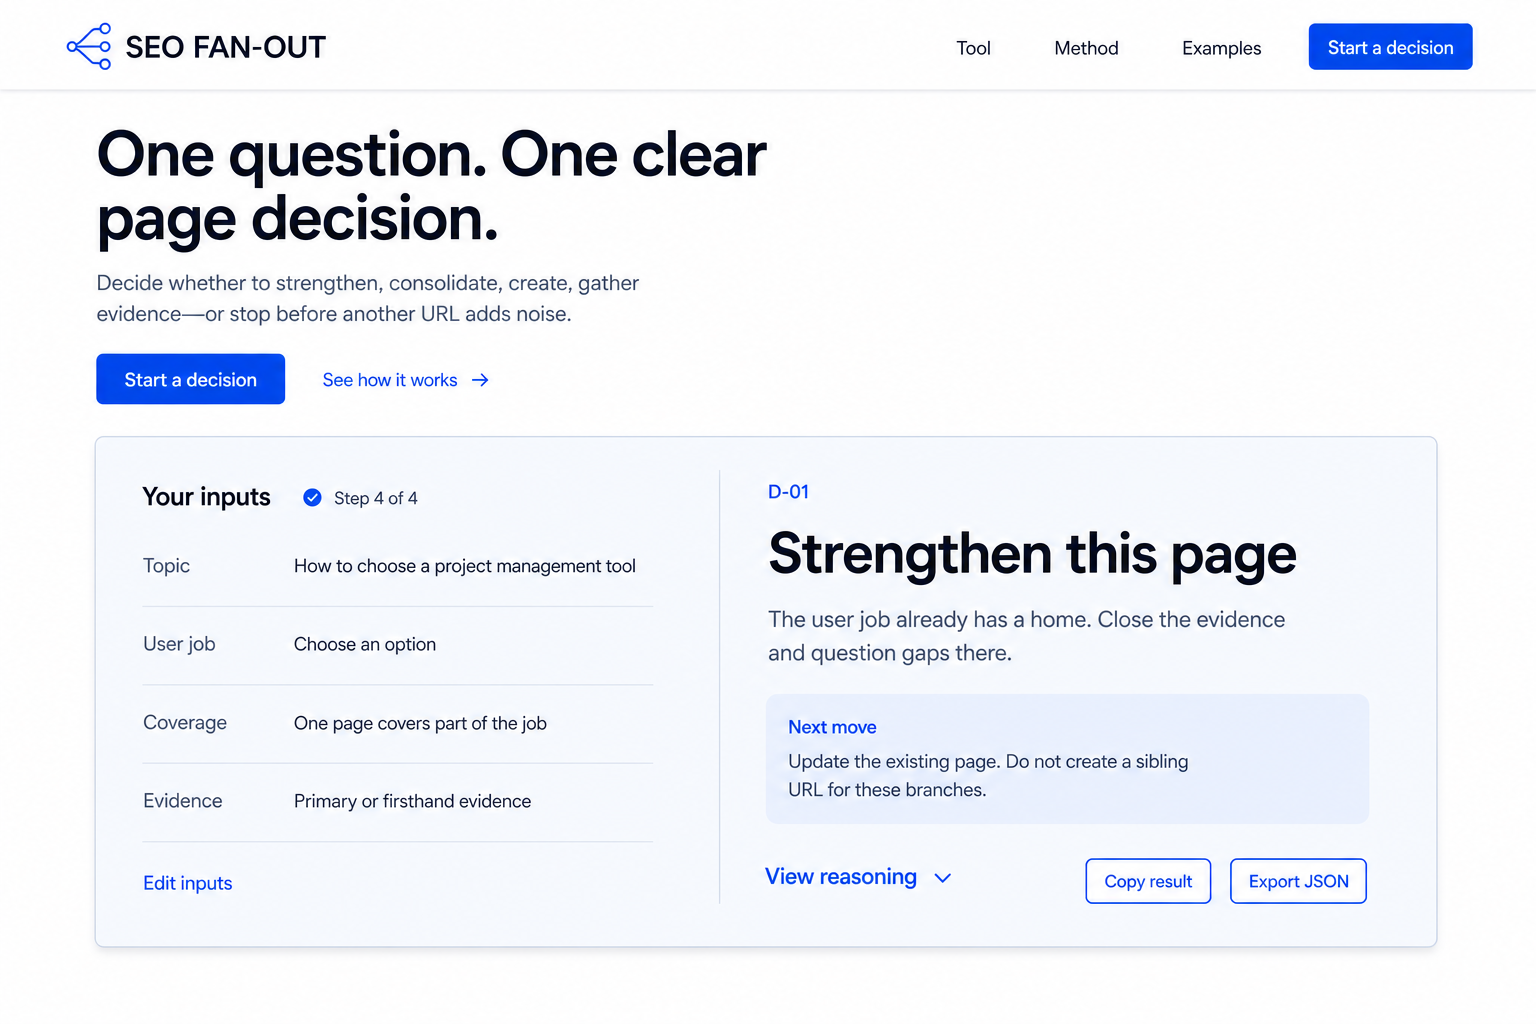
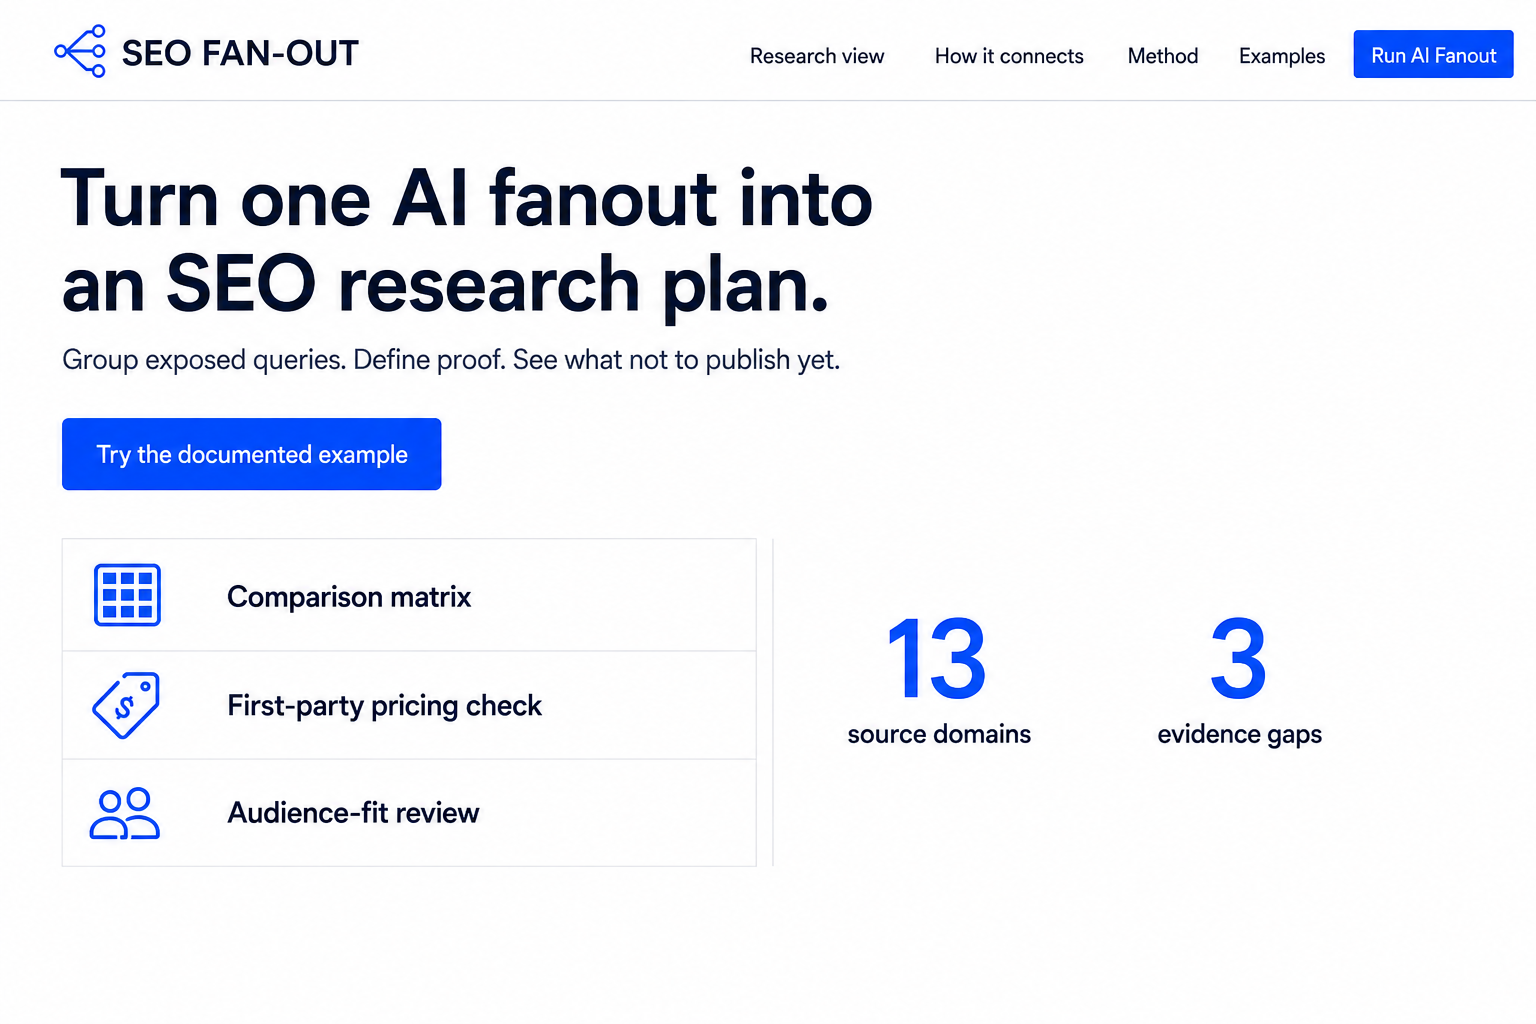
refine research plan clarity and source evidence

diff --git a/src/scripts/seo-research-tool.ts b/src/scripts/seo-research-tool.ts
@@ -51,6 +51,7 @@ if (root) {
     setText("[data-packages-copy]", "Jedes Paket verbindet Queries mit demselben Recherchejob.", "Each package combines queries that belong to the same research job.", language);
     setText("[data-source-label]", "Quellenpool", "Source pool", language);
     setText("[data-source-title]", "Nutze den Lauf als Startpunkt – nicht als Beweis.", "Use the run as a lead list—not as proof.", language);
+    setText("[data-first-move-label]", "Erster Schritt", "First move", language);
     setText("[data-gaps-label]", "Noch fehlende Evidenz", "Evidence still missing", language);
     setText("[data-gaps-title]", "Prüfe das vor der Veröffentlichung.", "Verify these before publishing.", language);
     setText("[data-export-label]", "Nimm den Plan mit", "Take the plan with you", language);
@@ -58,6 +59,7 @@ if (root) {
     setText("[data-export-copy]", "Kopiere den Plan oder lade den vollständigen lokalen Datensatz.", "Copy the plan or download the complete local record.", language);
     setText("[data-next-label]", "Optionale tiefere Evidenz", "Optional deeper evidence", language);
     setText("[data-next-title]", "Prüfe Nachfrage und bestehende Seiten.", "Check demand and existing pages.", language);
+    setText("[data-workflow-copy]", "Nutze diesen Schritt nur, wenn du den Plan mit echter Suchnachfrage oder den bestehenden Seiten deiner Website abgleichen möchtest.", "Continue only if you want to compare this plan with real keyword demand or the pages already on your site.", language);
     setText("[data-raw-summary]", "Übertragene Queries und Quellen-Scope anzeigen", "View the raw transferred queries and source scope", language);
     setText("[data-copy-brief]", "Rechercheplan kopieren", "Copy research plan", language);
     setText("[data-download-brief]", "JSON herunterladen", "Download JSON", language);
@@ -96,6 +98,11 @@ if (root) {
     root.querySelector<HTMLElement>("[data-package-count]")!.textContent = String(analysis.workPackages.length);
     root.querySelector<HTMLElement>("[data-domain-count]")!.textContent = String(analysis.sourceDomainCount);
     root.querySelector<HTMLElement>("[data-gap-count]")!.textContent = String(analysis.unknowns.length);
+    root.querySelector<HTMLElement>("[data-source-toggle]")!.textContent = copy(
+      `${analysis.sourceDomainCount} Domains nach Quellenrolle prüfen`,
+      `Inspect ${analysis.sourceDomainCount} domains by source role`,
+      language,
+    );
     root.querySelector<HTMLElement>("[data-working-title]")!.textContent = analysis.workingDirection.title;
     root.querySelector<HTMLElement>("[data-working-rationale]")!.textContent = analysis.workingDirection.rationale;
     root.querySelector<HTMLElement>("[data-result-summary]")!.textContent =
